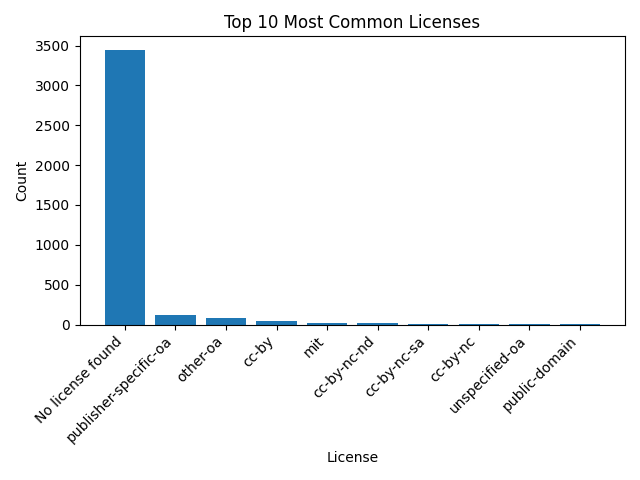
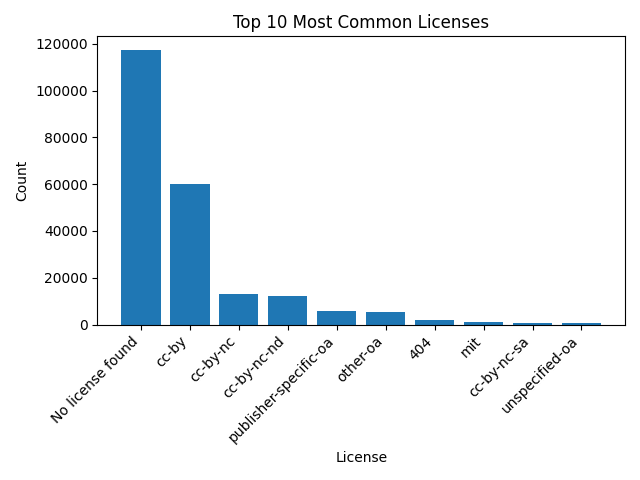
a

diff --git a/get_sections_from_pdf.py b/get_sections_from_pdf.py
@@ -2,44 +2,71 @@ import PyPDF2
 import requests
 from openai import OpenAI
 import os
+import tiktoken
+from io import BytesIO
+
+# split into chunks
+# don't do that stupid file shit
 
 client = OpenAI(api_key=os.getenv('API_KEY'))
 
-def download_pdf(url, filename):
-    response = requests.get(url)
-    with open(filename, 'wb') as file:
-        file.write(response.content)
-
-def extract_text_from_pdf(pdf_path):
-    with open(pdf_path, 'rb') as file:
-        reader = PyPDF2.PdfReader(file)
+def get_text(path):
+    if os.path.exists(path):
+        print("Reading pdf from file")
+        with open(path, 'rb') as file:
+            reader = PyPDF2.PdfReader(file)
+            text = ''
+            for page_num in range(len(reader.pages)):
+                page = reader.pages[page_num]
+                text += page.extract_text()
+    else:
+        print("Reading pdf from internet")
+        response = requests.get(path)
+        pdf_bytes = BytesIO(response.content)
+        reader = PyPDF2.PdfReader(pdf_bytes)
         text = ''
         for page_num in range(len(reader.pages)):
             page = reader.pages[page_num]
             text += page.extract_text()
     return text
 
-def get_sections(pdf):
-    response = client.chat.completions.create(model="gpt-4o",
-    messages=[
-        {"role": "system", "content": "I am going to give you the following systematic review. I want you to return to me the sections where it talks about specific studies included in the review. ONLY give me the (nameOfStudy)<sep>(discussion) and each study should be seperated by <newstudy>"},
-        {"role": "user", "content": pdf}
-    ])
-    response = response.choices[0].message.content
-    studies = response.split("<newstudy>")
+def split_text_into_chunks(text, max_tokens):
+    print("Splitting into chunks")
+    enc = tiktoken.encoding_for_model("gpt-4o")
+    tokens = enc.encode(text)
+    chunks = []
+    for i in range(0, len(tokens), max_tokens):
+        chunk_tokens = tokens[i:i + max_tokens]
+        chunk = enc.decode(chunk_tokens)
+        chunks.append(chunk)
+    return chunks
+
+def get_sections(chunks):
     sections = {}
-    for study in studies:
-        study.strip()
-        title, content = study.split("<sep>")
-        title = title.strip()
-        content = content.strip()
-        sections[title] = content
+    for index, chunk in enumerate(chunks):
+        print(f"Processing chunk {index+1}/{len(chunks)}")
+        response = client.chat.completions.create(model="gpt-4o",
+        messages=[
+            {"role": "system", "content": "I am going to give you the following systematic review. I want you to return to me the sections where it talks about specific studies included in the review. Please note there may be no discussion of specific studies. In that case, return <null>. Otherwise, ONLY give me the (nameOfStudy)<sep>(discussion) and each study should be seperated by <newstudy>"},
+            {"role": "user", "content": chunk}
+        ])
+        response = response.choices[0].message.content
+        if "<null>" in response:
+            continue
+        studies = response.split("<newstudy>")
+        for study in studies:
+            study.strip()
+            title, content = study.split("<sep>")
+            title = title.strip()
+            content = content.strip()
+            sections[title] = content
     return sections
 
+old_url = "https://europepmc.org/backend/ptpmcrender.fcgi?accid=PMC7046131&blobtype=pdf"
+big_url = "https://www.cochranelibrary.com/cdsr/doi/10.1002/14651858.CD013534.pub3/epdf/full"
 
-download_pdf("https://europepmc.org/backend/ptpmcrender.fcgi?accid=PMC7046131&blobtype=pdf", "temp/a.pdf")
-pdf_path = 'temp/a.pdf'
-text = extract_text_from_pdf(pdf_path)
-sections = get_sections(text)
-print(sections)
-os.remove("temp/a.pdf")
+text = get_text(old_url)
+chunks = split_text_into_chunks(text, 25000) # 30,000 limit for my org but putting 30,0000 makes it go over a bit
+print(len(chunks))
+sections = get_sections(chunks)
+print(sections.keys())

diff --git a/2fetch_license.py b/2fetch_license.py
@@ -2,6 +2,7 @@ import csv
 import requests
 from concurrent.futures import ThreadPoolExecutor
 import logging
+import time
 
 logging.basicConfig(
     level=logging.INFO,
@@ -13,24 +14,49 @@ logging.basicConfig(
 )
 
 EMAIL = "planto73@harkenpretty.com"
-start_pos = 0
-end_pos = 20000
+# start_pos = 0
+# end_pos = 20000
+MAX_RETRIES = 3
+BACKOFF_FACTOR = 5
 
 def fetch_license(review, email):
     url = f"https://api.unpaywall.org/v2/{review['DOI']}"
-    
-    response = requests.get(url, params={"email": email})
-    data = response.json()
-    best_oa_location = data.get("best_oa_location")
-    review["url"] = best_oa_location.get("url") if best_oa_location else "No url found"
-    review["pdf_url"] = best_oa_location.get("url_for_pdf") if best_oa_location else "No url found"
-    logging.info(review["pdf_url"])
-    review["license"] = best_oa_location.get("license") if best_oa_location else "No license found"
+    retries = 0
+    while retries < MAX_RETRIES:
+        try:
+            response = requests.get(url, params={"email": email}, timeout=10)
+            response.raise_for_status()  # Raise an exception for HTTP errors
+            data = response.json()
+            best_oa_location = data.get("best_oa_location")
+            review["url"] = best_oa_location.get("url") if best_oa_location else "No url found"
+            review["pdf_url"] = best_oa_location.get("url_for_pdf") if best_oa_location else "No url found"
+            review["license"] = best_oa_location.get("license") if best_oa_location else "No license found"
+            logging.info(f'{review["url"]}, {review["pdf_url"]}, {review["license"]}')
+            return
+        except requests.exceptions.HTTPError as http_err:
+            if response.status_code == 404:
+                review["url"] = "404"
+                review["pdf_url"] = "404"
+                review["license"] = "404"
+                logging.info(f'{review["url"]}, {review["pdf_url"]}, {review["license"]}')
+                return
+            logging.warning(f"Attempt {retries + 1} failed: HTTP error occurred: {http_err}, response: {response.text}")
+        except requests.exceptions.ConnectionError as conn_err:
+            logging.warning(f"Attempt {retries + 1} failed: Connection error occurred: {conn_err}")
+        except requests.exceptions.Timeout as timeout_err:
+            logging.warning(f"Attempt {retries + 1} failed: Timeout error occurred: {timeout_err}")
+        except requests.exceptions.RequestException as req_err:
+            logging.warning(f"Attempt {retries + 1} failed: Request error occurred: {req_err}")
+        except ValueError as val_err:
+            logging.warning(f"Attempt {retries + 1} failed: Value error occurred: {val_err}")
+    review["url"] = "FAILURE"
+    review["pdf_url"] = "FAILURE"
+    review["license"] = "FAILURE"
 
 def fetch_licenses():
     with ThreadPoolExecutor(max_workers=100) as executor:
         futures = []
-        for review in reviews[start_pos:end_pos]:
+        for review in reviews:
             futures.append(executor.submit(fetch_license, review, EMAIL))
 
         for future in futures:
@@ -39,13 +65,12 @@ def fetch_licenses():
 with open("reviews.csv", mode="r") as file:
     reader = csv.DictReader(file)
     reviews = [row for row in reader]
+
 fetch_licenses()
 
 with open("reviews.csv", mode="w", newline="") as file:
     fieldnames = ["ID", "Title", "Authors", "Citation", "Author(s)", "Journal", "Year of Publication", "Full Publication Date", "field1", "field2", "DOI", "license", "url", "pdf_url"]
-    
     writer = csv.DictWriter(file, fieldnames=fieldnames)
     writer.writeheader()
-    
     for review in reviews:
         writer.writerow(review)

diff --git a/license_dist.py b/license_dist.py
@@ -7,17 +7,21 @@ with open("reviews.csv", mode="r") as file:
     reviews = [row for row in reader]
 
 license_dist = Counter()
-for index, review in enumerate(reviews[:5000]):
+len_reviews = len(reviews)
+for index, review in enumerate(reviews):
+    if review["license"] == "404":
+        print(review["DOI"])
     license_dist.update([review["license"]])
 
 
 if "" in license_dist:
     del license_dist[""]
 
-most_common_l = license_dist.most_common(10)
-keys_l, values_l = zip(*most_common_l)
+most_common = license_dist.most_common(10)
+print(most_common)
+keys, values = zip(*most_common)
 
-plt.bar(keys_l, values_l)
+plt.bar(keys, values)
 plt.title('Top 10 Most Common Licenses')
 plt.xlabel('License')
 plt.ylabel('Count')
